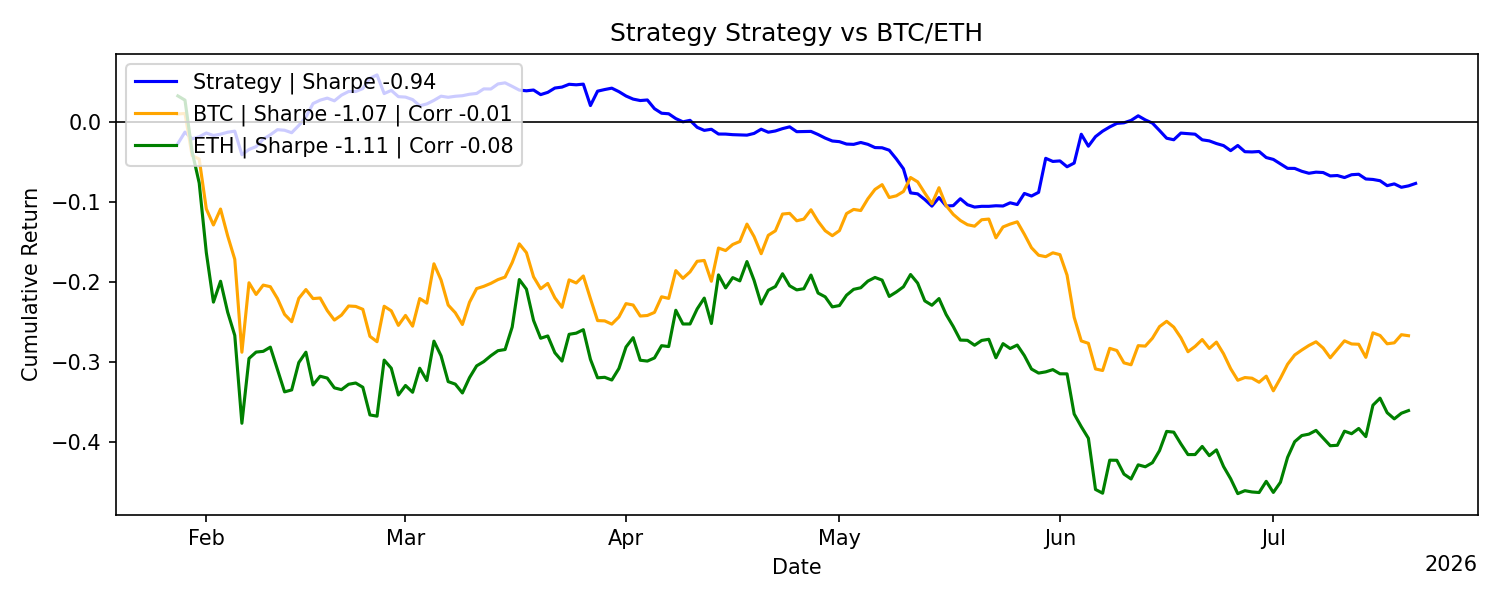
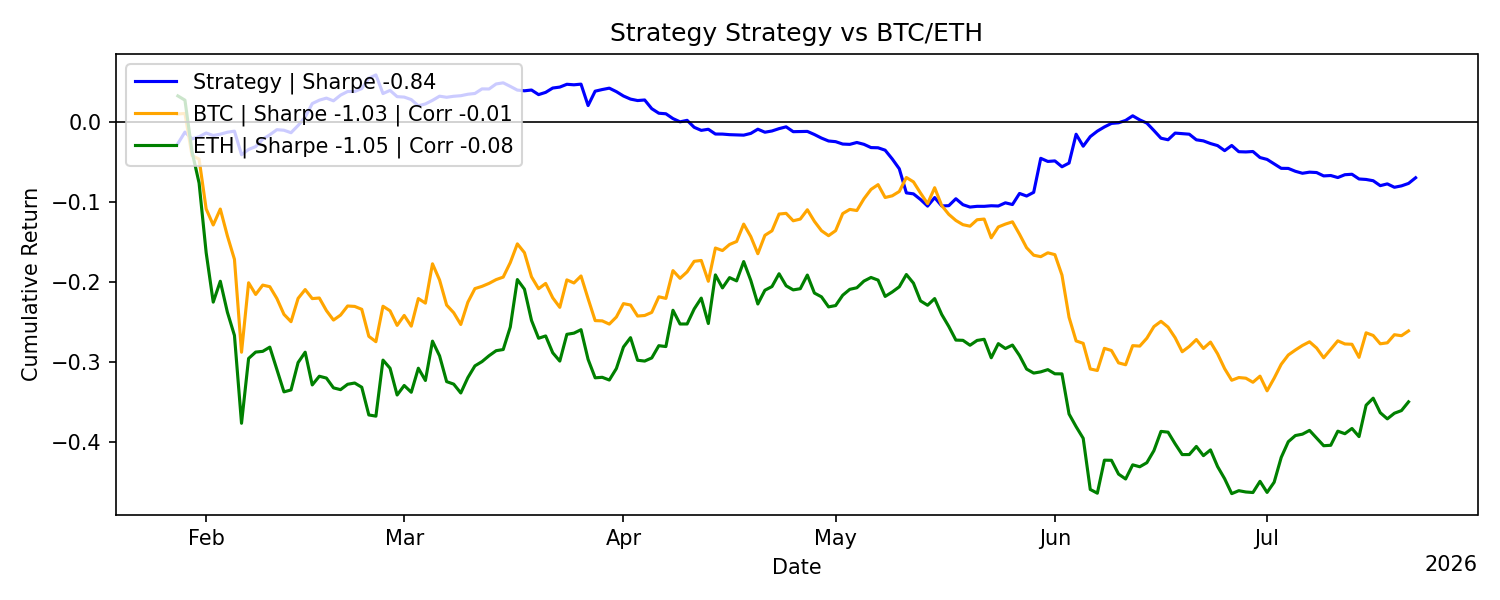
Update reports: 2026-07-22 00:02:39 UTC

diff --git a/README.md b/README.md
@@ -24,26 +24,26 @@ All results are live and reported net of transaction costs and slippage.
 <!-- METRICS_START -->
 | metric                       |        values |
 |:-----------------------------|--------------:|
-| Number of Observations       | 175           |
-| Mean Daily Return            |  -0.000419995 |
-| Daily Volatility             |   0.0085372   |
-| Mean Annualized Return       |  -0.153298    |
-| Annualized Volatility        |   0.163103    |
+| Number of Observations       | 176           |
+| Mean Daily Return            |  -0.000373994 |
+| Daily Volatility             |   0.00853462  |
+| Mean Annualized Return       |  -0.136508    |
+| Annualized Volatility        |   0.163054    |
 | Maximum Drawdown             |  -0.156146    |
-| Max Drawdown Duration (Days) | 146           |
-| Sharpe                       |  -0.939886    |
-| Sortino                      |  -1.29333     |
-| Calmar                       |  -0.981762    |
-| CAGR                         |  -0.153393    |
-| Skewness                     |   0.713516    |
-| Excess Kurtosis              |   8.8228      |
-| Win Rate                     |   0.468571    |
-| Profit Factor                |   0.854558    |
-| VaR 1%                       |  -0.0276462   |
+| Max Drawdown Duration (Days) | 147           |
+| Sharpe                       |  -0.837196    |
+| Sortino                      |  -1.15168     |
+| Calmar                       |  -0.874233    |
+| CAGR                         |  -0.139046    |
+| Skewness                     |   0.698614    |
+| Excess Kurtosis              |   8.7564      |
+| Win Rate                     |   0.471591    |
+| Profit Factor                |   0.869748    |
+| VaR 1%                       |  -0.0276164   |
 | CVaR 1%                      |  -0.030925    |
-| VaR 5%                       |  -0.0108103   |
+| VaR 5%                       |  -0.0107731   |
 | CVaR 5%                      |  -0.0208176   |
-| Correlation with BTC         |  -0.0093546   |
+| Correlation with BTC         |  -0.00840052  |
 <!-- METRICS_END -->
 
 ## Sharpe Statistics
@@ -55,14 +55,14 @@ All results are live and reported net of transaction costs and slippage.
 | metric                     |   values |
 |:---------------------------|---------:|
 | alpha                      |   0.05   |
-| t-statistic                |  -0.6508 |
-| p-value                    |   0.516  |
-| Daily Sharpe Ratio         |  -0.0492 |
-| Annualized Sharpe Ratio    |  -0.9399 |
-| Sharpe Standard Error      |   1.4782 |
-| C.I. Lower Bound           |  -3.8371 |
-| C.I. Upper Bound           |   1.9573 |
-| Bootstrap C.I. Lower Bound |  -4.3569 |
-| Bootstrap C.I. Upper Bound |   2.8967 |
+| t-statistic                |  -0.5813 |
+| p-value                    |   0.5618 |
+| Daily Sharpe Ratio         |  -0.0438 |
+| Annualized Sharpe Ratio    |  -0.8372 |
+| Sharpe Standard Error      |   1.4698 |
+| C.I. Lower Bound           |  -3.718  |
+| C.I. Upper Bound           |   2.0436 |
+| Bootstrap C.I. Lower Bound |  -3.995  |
+| Bootstrap C.I. Upper Bound |   2.8239 |
 <!-- SHARPE_END -->
 
